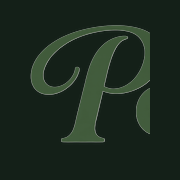
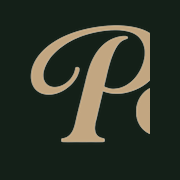
Use bronze #C4A882 wordmark on dark surfaces.
Green remains for light UI; hero, footer, and dark brand-kit lockups switch to bronze soft.

Changed region(s): [[0.1667, 0.1389, 0.8333, 0.8056]]

diff --git a/brand-kit/index.html b/brand-kit/index.html
@@ -303,14 +303,15 @@
   <body>
     <div class="wrap">
       <header class="hero">
-        <img src="./logos/peptis-wordmark-green.png" alt="Peptis" />
+        <img src="./logos/peptis-wordmark-bronze.png" alt="Peptis" />
         <h1>Brand kit</h1>
         <p>
-          Earthy green identity for Peptis — logo lockups, palette, type, and UI
-          cues for product and marketing surfaces.
+          Peptis identity — green on light, bronze soft on dark — plus palette,
+          type, and UI cues for product and marketing surfaces.
         </p>
         <div class="meta">
-          <span>Primary #3F5B3A</span>
+          <span>Light #3F5B3A</span>
+          <span>Dark #C4A882</span>
           <span>Fraunces + Manrope</span>
           <span>Information Edge Insights LLC</span>
         </div>
@@ -318,31 +319,31 @@
 
       <section>
         <p class="eyebrow">Logotype</p>
-        <h2>Green wordmark</h2>
+        <h2>Colorways</h2>
         <div class="logo-grid">
           <figure class="logo-card">
             <div class="stage" style="background: var(--paper)">
               <img src="./logos/peptis-wordmark-green.png" alt="Peptis on paper" />
             </div>
-            <figcaption>Transparent on paper — default digital</figcaption>
-          </figure>
-          <figure class="logo-card">
-            <div class="stage dark">
-              <img src="./logos/peptis-wordmark-green.png" alt="Peptis on forest" />
-            </div>
-            <figcaption>On forest — heroes & dark UI</figcaption>
-          </figure>
-          <figure class="logo-card">
-            <div class="stage black">
-              <img src="./logos/peptis-wordmark-green.png" alt="Peptis on black" />
-            </div>
-            <figcaption>On black — decks & video</figcaption>
+            <figcaption>Green #3F5B3A on paper — light UI</figcaption>
           </figure>
           <figure class="logo-card">
             <div class="stage" style="background: #fff">
               <img src="./logos/peptis-wordmark-green.png" alt="Peptis on white" />
             </div>
-            <figcaption>On white — print & docs</figcaption>
+            <figcaption>Green on white — print & docs</figcaption>
+          </figure>
+          <figure class="logo-card">
+            <div class="stage dark">
+              <img src="./logos/peptis-wordmark-bronze.png" alt="Peptis on forest" />
+            </div>
+            <figcaption>Bronze #C4A882 on forest — heroes & dark UI</figcaption>
+          </figure>
+          <figure class="logo-card">
+            <div class="stage black">
+              <img src="./logos/peptis-wordmark-bronze.png" alt="Peptis on black" />
+            </div>
+            <figcaption>Bronze on black — decks & video</figcaption>
           </figure>
         </div>
       </section>
@@ -417,20 +418,21 @@
         <h2>Do / don’t</h2>
         <ul class="rules">
           <li>
-            <strong>Do</strong> use the earthy green wordmark as the primary
-            lockup on paper, mist, forest, white, or black.
+            <strong>Do</strong> use green <code>#3F5B3A</code> on light surfaces
+            (paper, mist, white).
+          </li>
+          <li>
+            <strong>Do</strong> use bronze soft <code>#C4A882</code> on dark
+            surfaces (forest, black, hero photography).
           </li>
           <li>
             <strong>Do</strong> keep clear space around the mark and pair it
             with Fraunces headlines + Manrope body.
           </li>
           <li>
-            <strong>Don’t</strong> recolor the logo outside the sage family, skew
-            it, or place it on low-contrast busy imagery without a scrim.
-          </li>
-          <li>
-            <strong>Don’t</strong> use the legacy burgundy lockup on Peptis
-            consumer or marketing surfaces.
+            <strong>Don’t</strong> put the green lockup on dark fields, or the
+            bronze lockup on light fields. Don’t skew the mark or use the legacy
+            burgundy wordmark.
           </li>
         </ul>
       </section>

diff --git a/src/App.tsx b/src/App.tsx
@@ -40,7 +40,7 @@ function App() {
           <div className="hero-inner">
             <img
               className="hero-brand"
-              src="/peptis-logo-green.png"
+              src="/peptis-logo-bronze.png"
               alt="Peptis"
             />
             <h1>Peptide care, guided by clinicians.</h1>
@@ -170,7 +170,7 @@ function App() {
       <footer className="footer">
         <div className="footer-inner">
           <div className="footer-top">
-            <img src="/peptis-logo-green.png" alt="Peptis" />
+            <img src="/peptis-logo-bronze.png" alt="Peptis" />
             <div className="footer-links">
               <a href="#care">Care</a>
               <a href="#how">How it works</a>

diff --git a/src/index.css b/src/index.css
@@ -179,7 +179,6 @@ button {
   height: clamp(64px, 10vw, 92px);
   width: auto;
   margin-bottom: 1.35rem;
-  filter: brightness(1.15);
   opacity: 0;
   animation: rise 0.9s var(--ease) 0.1s forwards;
 }

diff --git a/README.md b/README.md
@@ -36,7 +36,7 @@ Full kit (green logo lockups, palette, type, tokens):
 - Specs: [`brand-kit/BRAND.md`](./brand-kit/BRAND.md)
 - Tokens: [`brand-kit/tokens.css`](./brand-kit/tokens.css)
 - Logos: `brand-kit/logos/` (wordmark, on-paper/forest/white/black, OG, icons)
-- Primary: earthy sage `#3F5B3A` · Fraunces + Manrope · Information Edge Insights LLC
+- Light: sage `#3F5B3A` · Dark: bronze `#C4A882` · Fraunces + Manrope · Information Edge Insights LLC
 
 ## Recommended hero products
 
